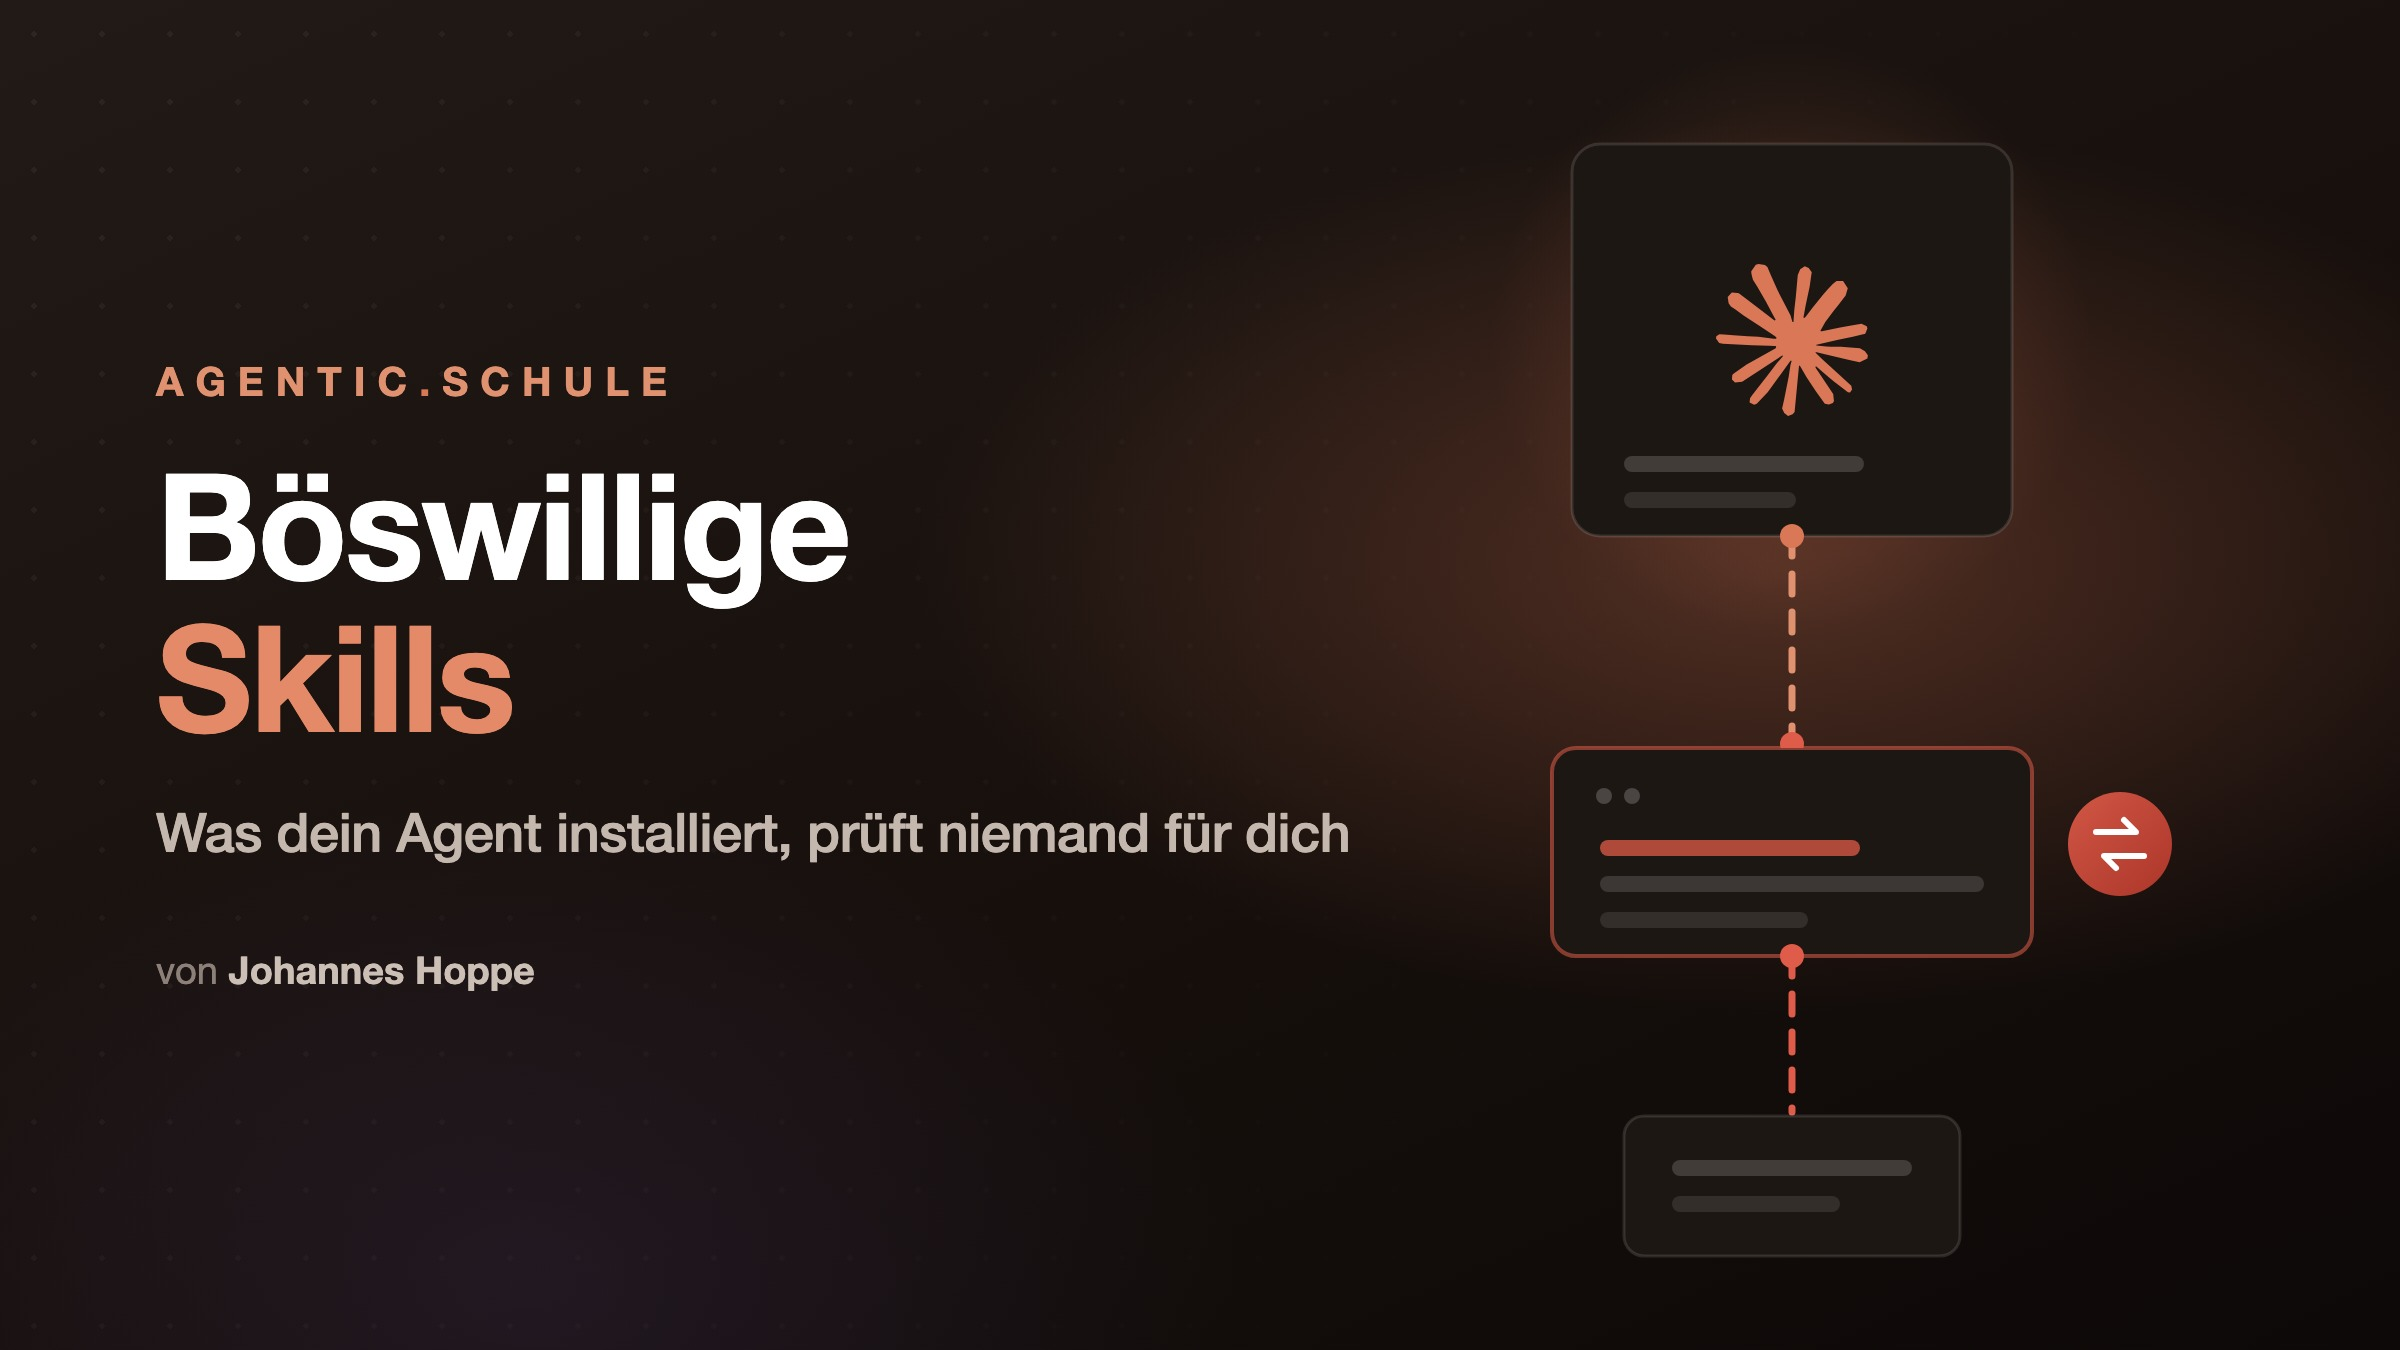
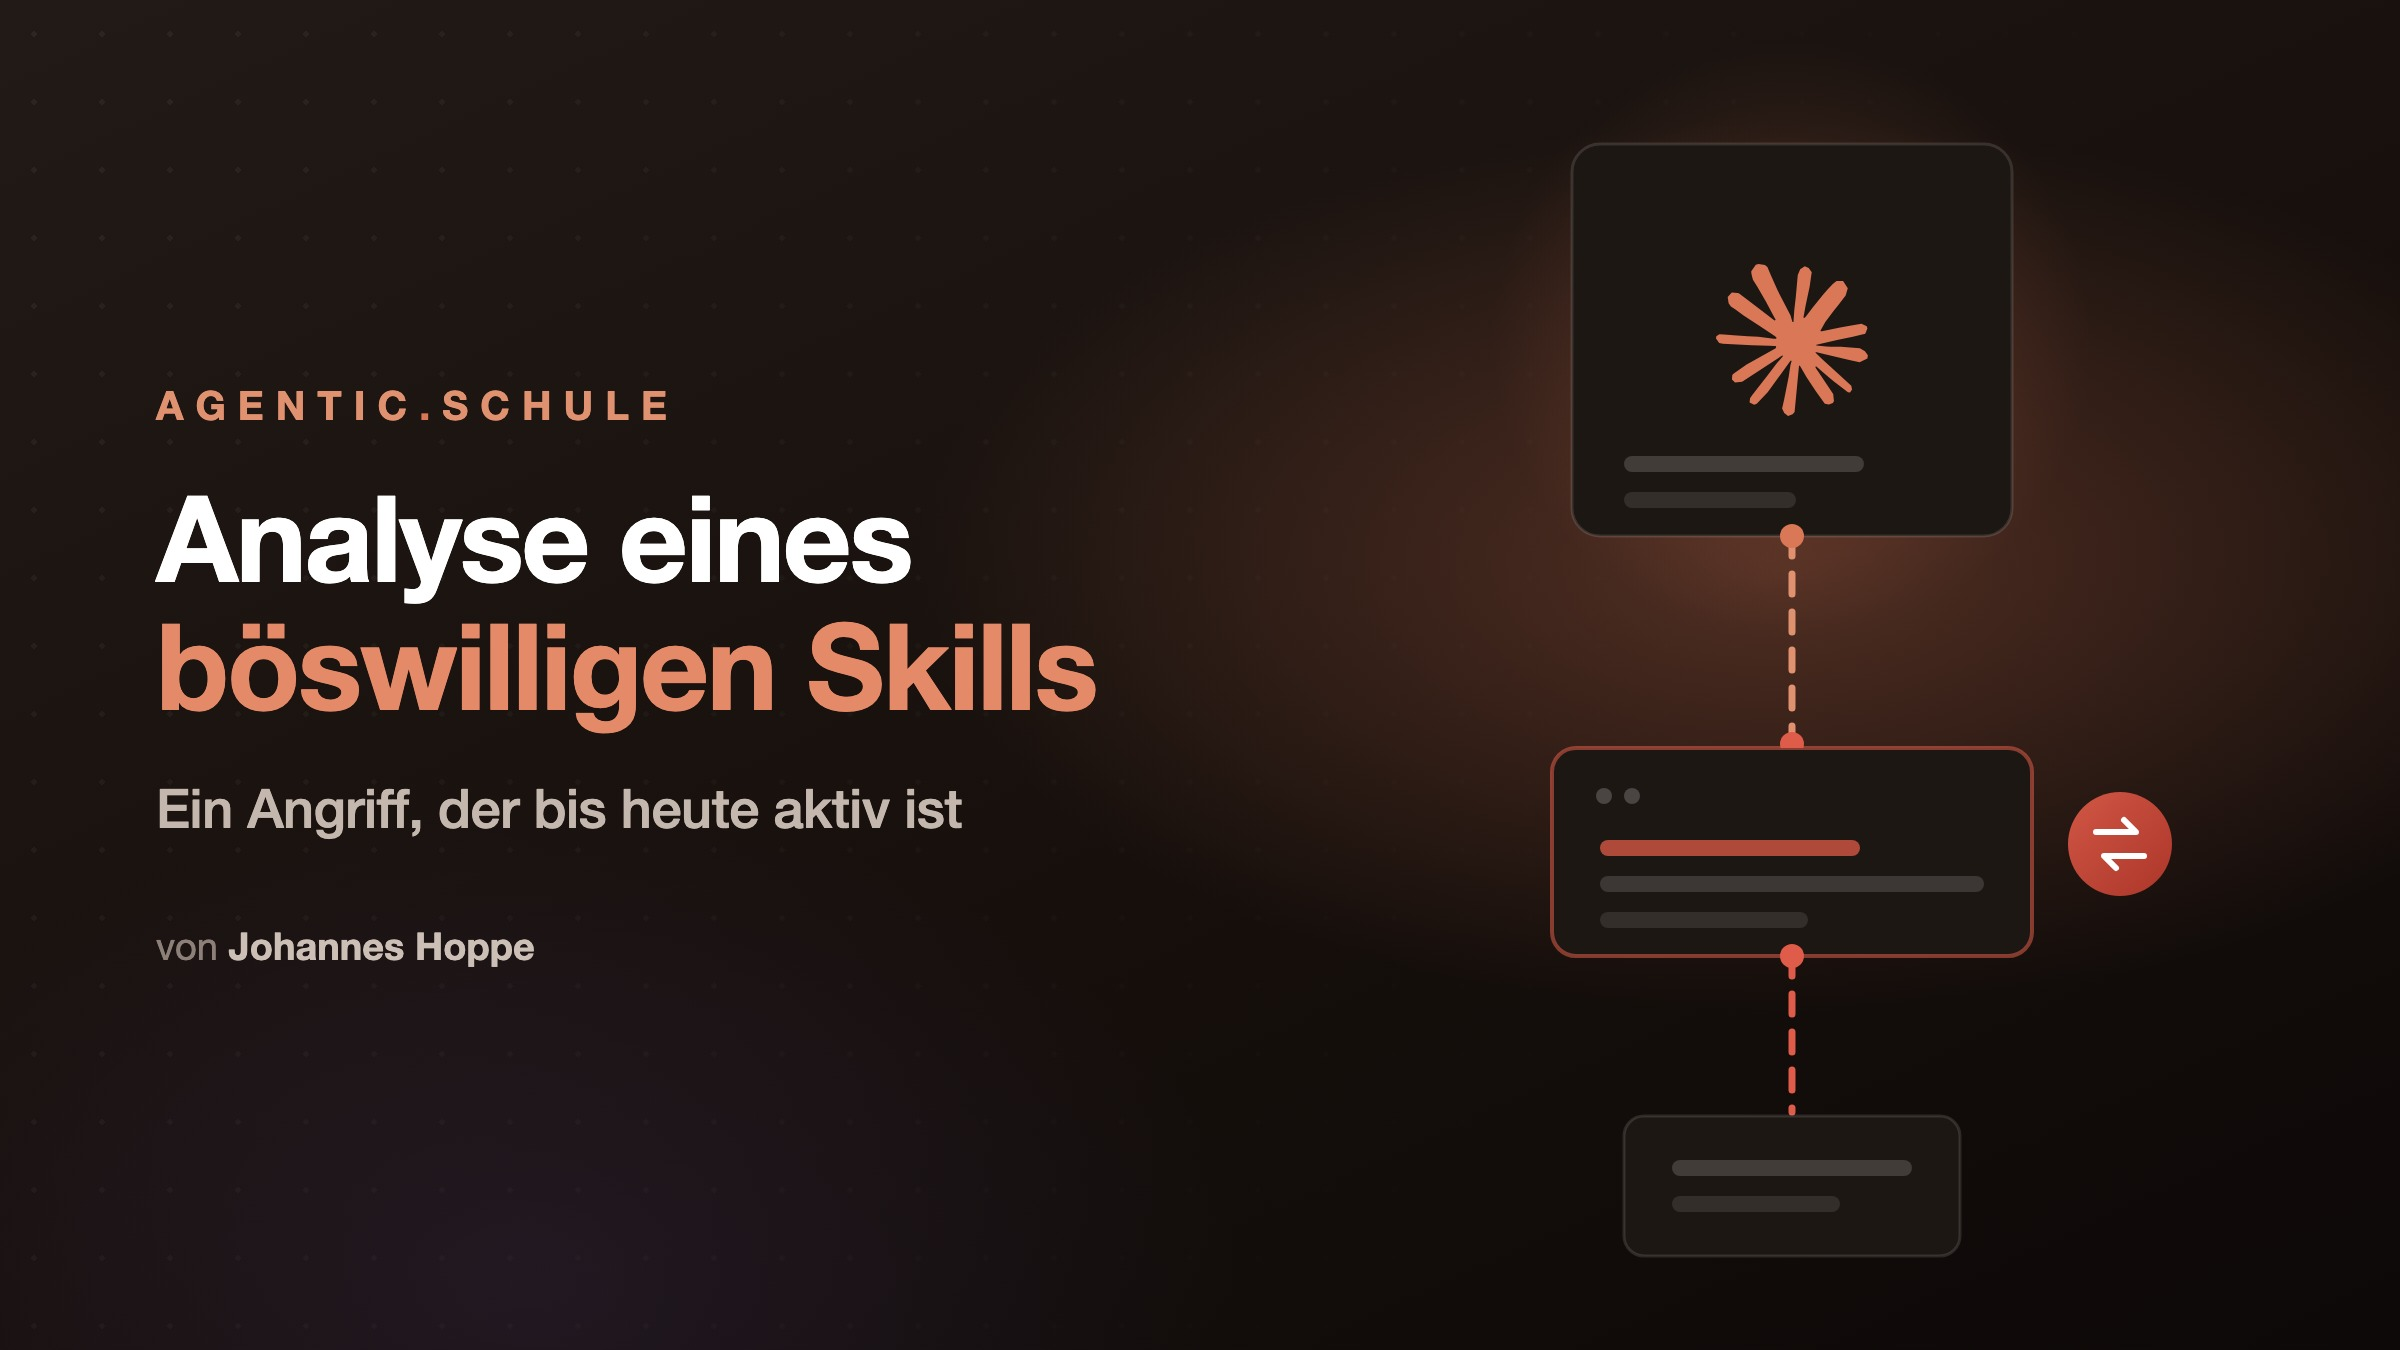
Neuer Titel: Analyse eines boeswilligen Skills (Ein Angriff, der bis heute aktiv ist), Header neu gerendert

diff --git a/blog/2026-07-boeswillige-skills-DE/header.src.html b/blog/2026-07-boeswillige-skills-DE/header.src.html
@@ -21,7 +21,7 @@
   .left { width:620px; }
   .kicker { font-size:20px; letter-spacing:6px; font-weight:700; color:#e0916f; text-transform:uppercase; }
   .kicker .dot { color:#d97757; }
-  h1 { font-size:74px; line-height:1.02; font-weight:800; letter-spacing:-1.5px; margin:22px 0 0; }
+  h1 { font-size:60px; line-height:1.06; font-weight:800; letter-spacing:-1.2px; margin:22px 0 0; }
   h1 .accent { color:#e58a68; }
   .sub { margin-top:24px; font-size:27px; font-weight:500; color:#c3b7ae; letter-spacing:-.2px; }
   .by { margin-top:40px; font-size:19px; color:#8c8079; }
@@ -38,8 +38,8 @@
   <div class="wrap">
     <div class="left">
       <div class="kicker">agentic<span class="dot">.</span>schule</div>
-      <h1>Böswillige<br><span class="accent">Skills</span></h1>
-      <div class="sub">Was dein Agent installiert, prüft niemand für dich</div>
+      <h1>Analyse eines<br><span class="accent">böswilligen Skills</span></h1>
+      <div class="sub">Ein Angriff, der bis heute aktiv ist</div>
       <div class="by">von <b>Johannes Hoppe</b></div>
     </div>
   </div>

diff --git a/blog/2026-07-boeswillige-skills-DE/README.md b/blog/2026-07-boeswillige-skills-DE/README.md
@@ -1,5 +1,5 @@
 ---
-title: 'Böswillige Skills: Wie aus einem harmlosen Link eine Hintertür wird'
+title: 'Analyse eines böswilligen Skills: Ein Angriff, der bis heute aktiv ist'
 author: Johannes Hoppe
 mail: johannes.hoppe@haushoppe-its.de
 bio: '<a href="https://agentic.schule"><img src="/img/logo-agentic-schule.png" alt="agentic.schule Logo" style="float: right; margin-left: 30px; margin-top: -10px; margin-right: 30px; max-width: 220px;"></a>Johannes Hoppe ist Trainer und Berater für moderne Web-Entwicklung. In den Workshops von <a href="https://angular.schule" style="text-decoration: underline;"><b>angular.schule</b></a> und <a href="https://agentic.schule" style="text-decoration: underline;"><b>agentic.schule</b></a> geht es praxisnah um Angular – und zunehmend um agentische Entwicklung mit KI-Agenten wie Claude Code.'
